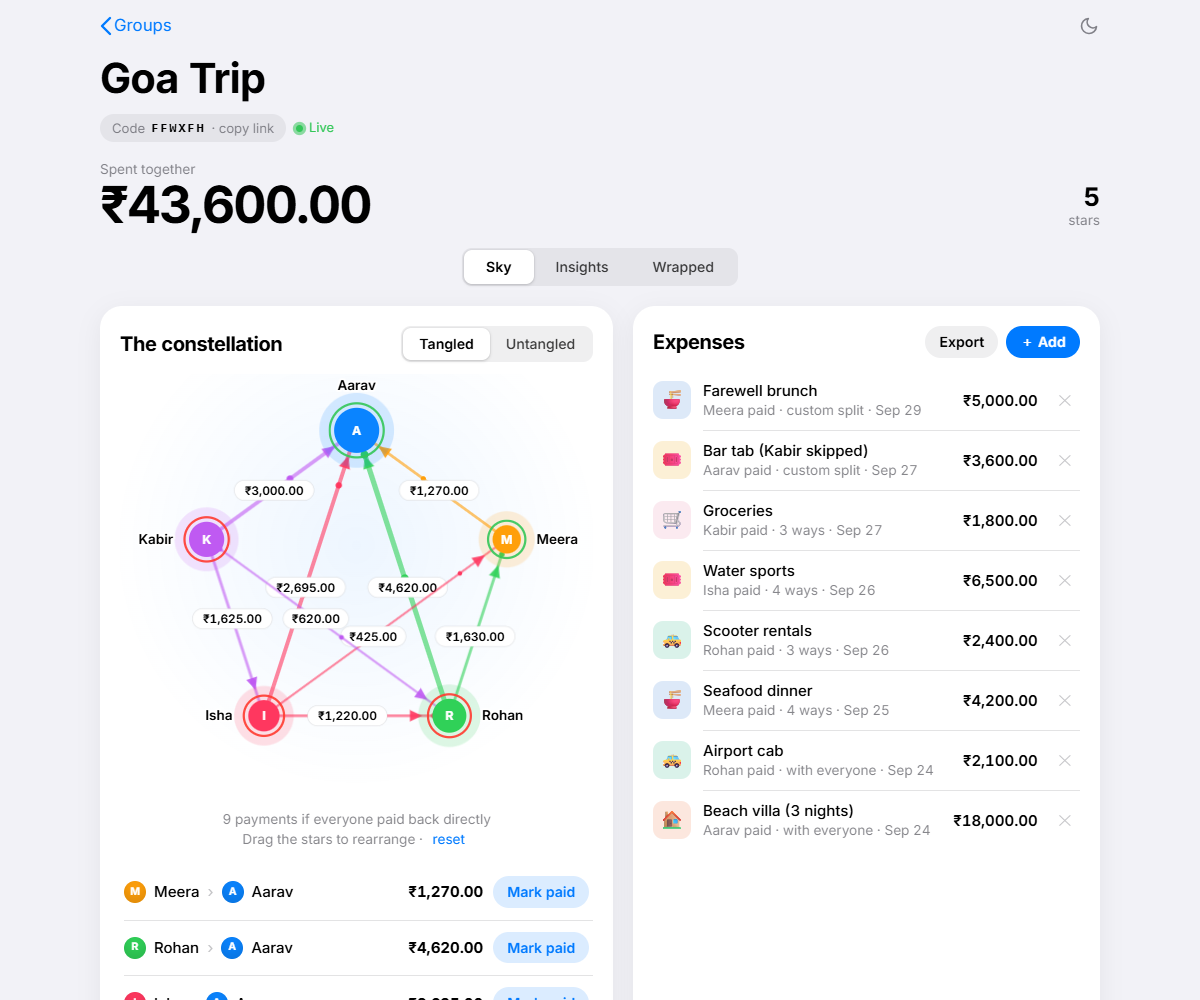
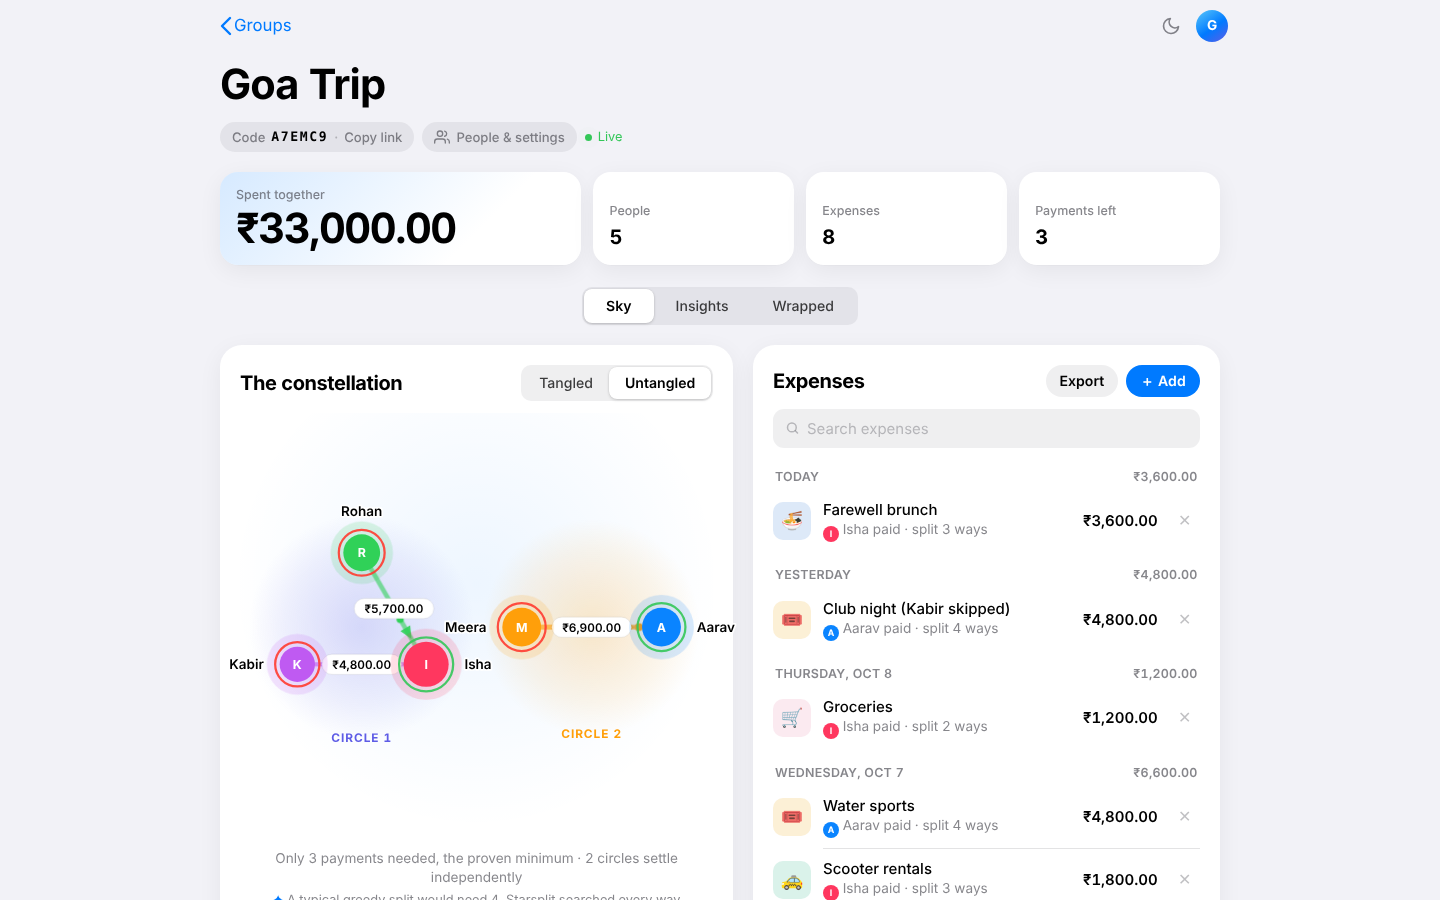
Refresh README screenshots to the current UI
The previous images predated the redesign, accounts and circles features.
New shots show the landing page, the Untangled view with two circles, and Insights.

Claude-Session: https://claude.ai/code/session_01DgG8gHBJv9VV9fwWpZdBeC

diff --git a/README.md b/README.md
@@ -8,9 +8,11 @@ Split expenses with friends, and watch the tangled web of IOUs **untangle into a
 
 Most expense splitters show you a list of numbers. Starsplit turns each group into a night sky: every person is a star, every debt is a glowing line flowing from debtor to creditor. Flip the **Tangled ↔ Untangled** toggle and the raw who-owes-who web collapses into the minimum number of payments that settles everyone.
 
-![Group view](docs/group.png)
+![Untangled view: the demo trip settles in 3 payments across 2 independent circles](docs/group.png)
 
-![Insights](docs/insights.png)
+| Landing page | Insights |
+|---|---|
+| ![Landing page](docs/landing.png) | ![Insights](docs/insights.png) |
 
 ## What makes it different
 
